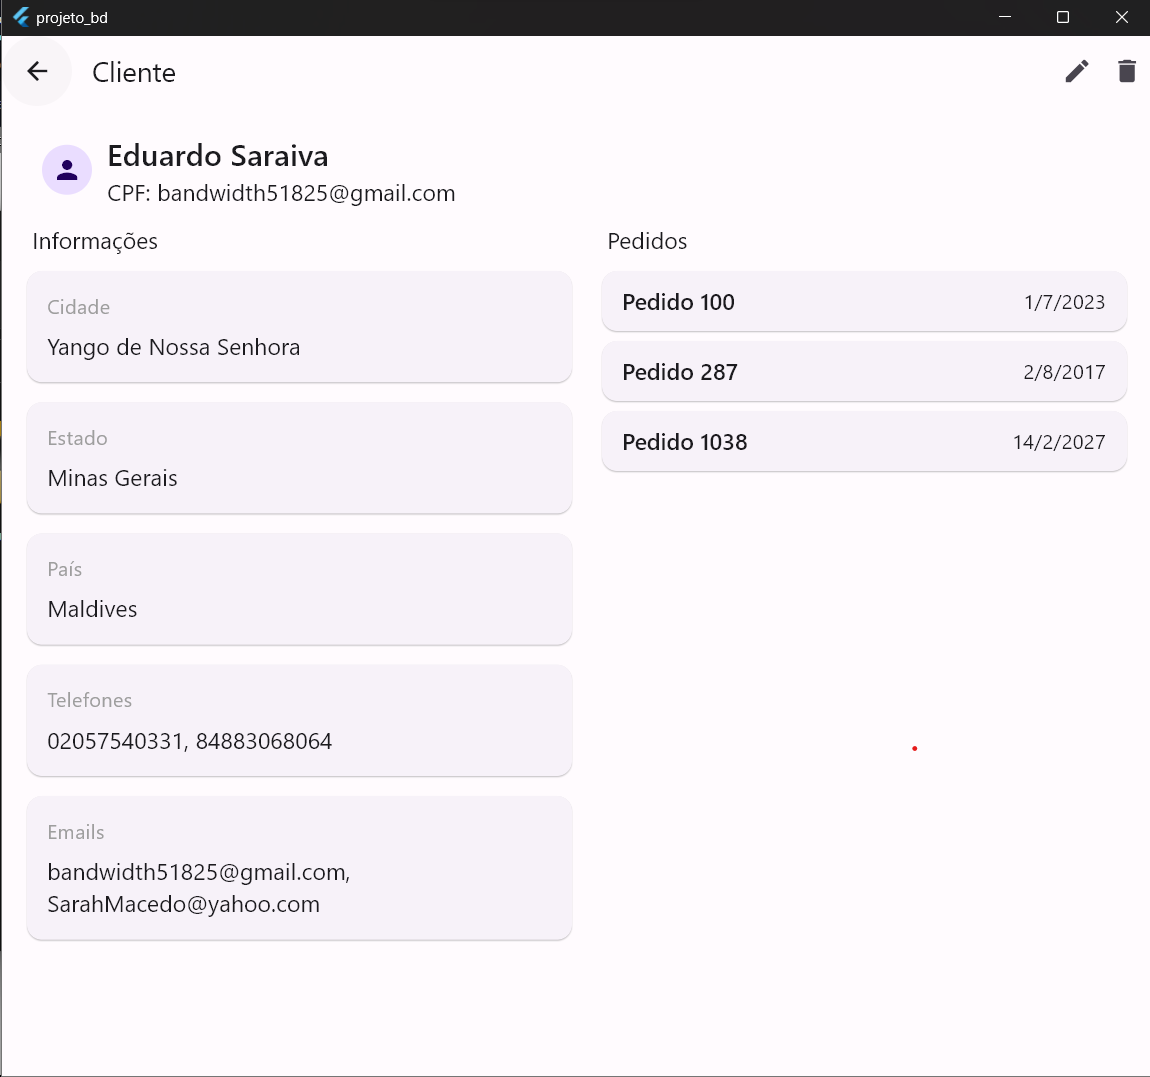
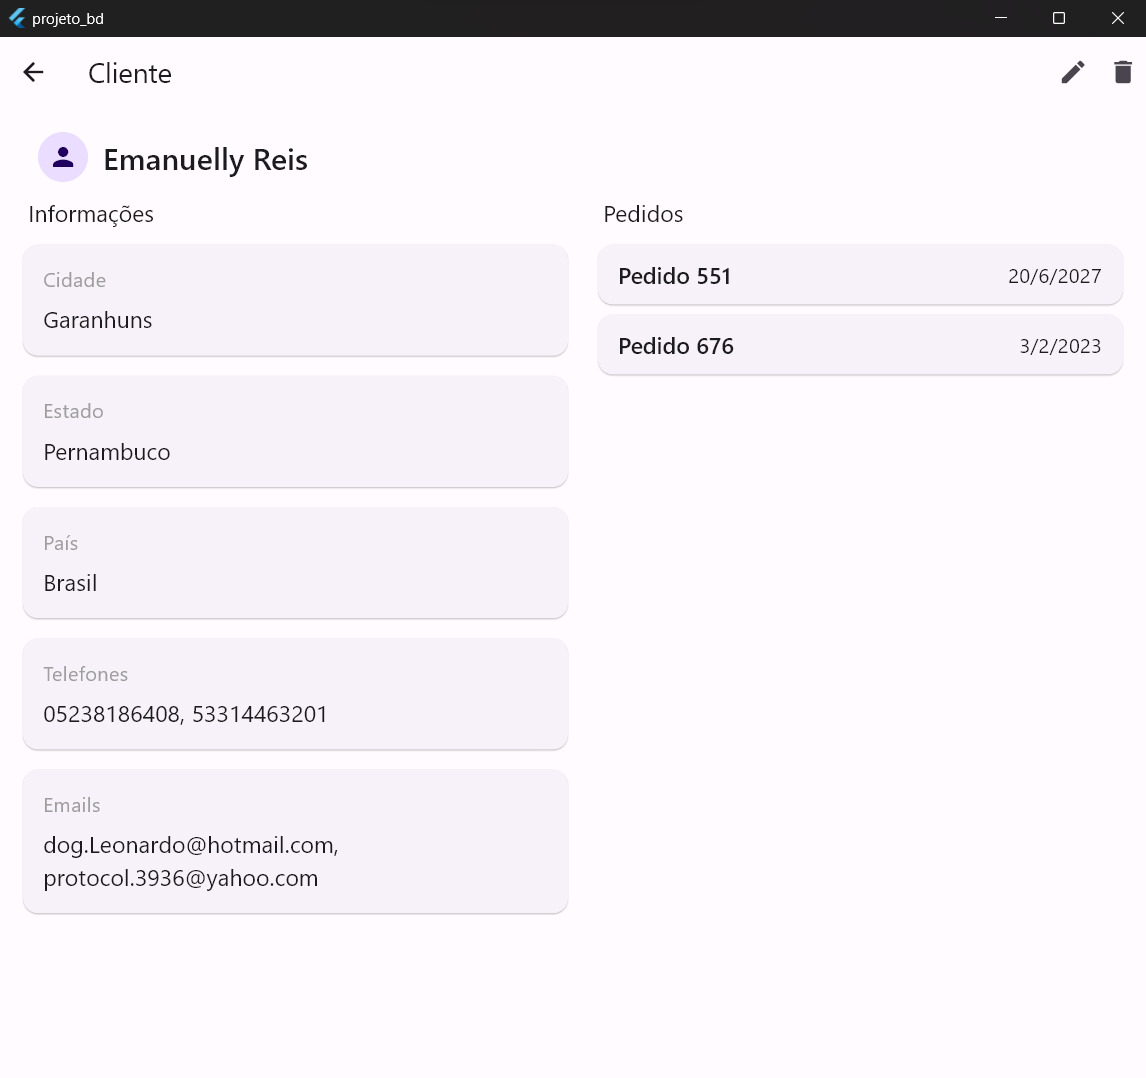
correção do subtitulo na tela de cliente

diff --git a/lib/app/features/cliente/view/cliente_screen.dart b/lib/app/features/cliente/view/cliente_screen.dart
@@ -84,10 +84,6 @@ class _ClienteScreenState extends State<ClienteScreen> {
                         cliente!.nome,
                         style: const TextStyle(fontSize: 24),
                       ),
-                      subtitle: Text(
-                        'CPF: ${cliente!.emails![0].email}',
-                        style: const TextStyle(fontSize: 18),
-                      ),
                     ),
                     Row(
                       crossAxisAlignment: CrossAxisAlignment.start,
